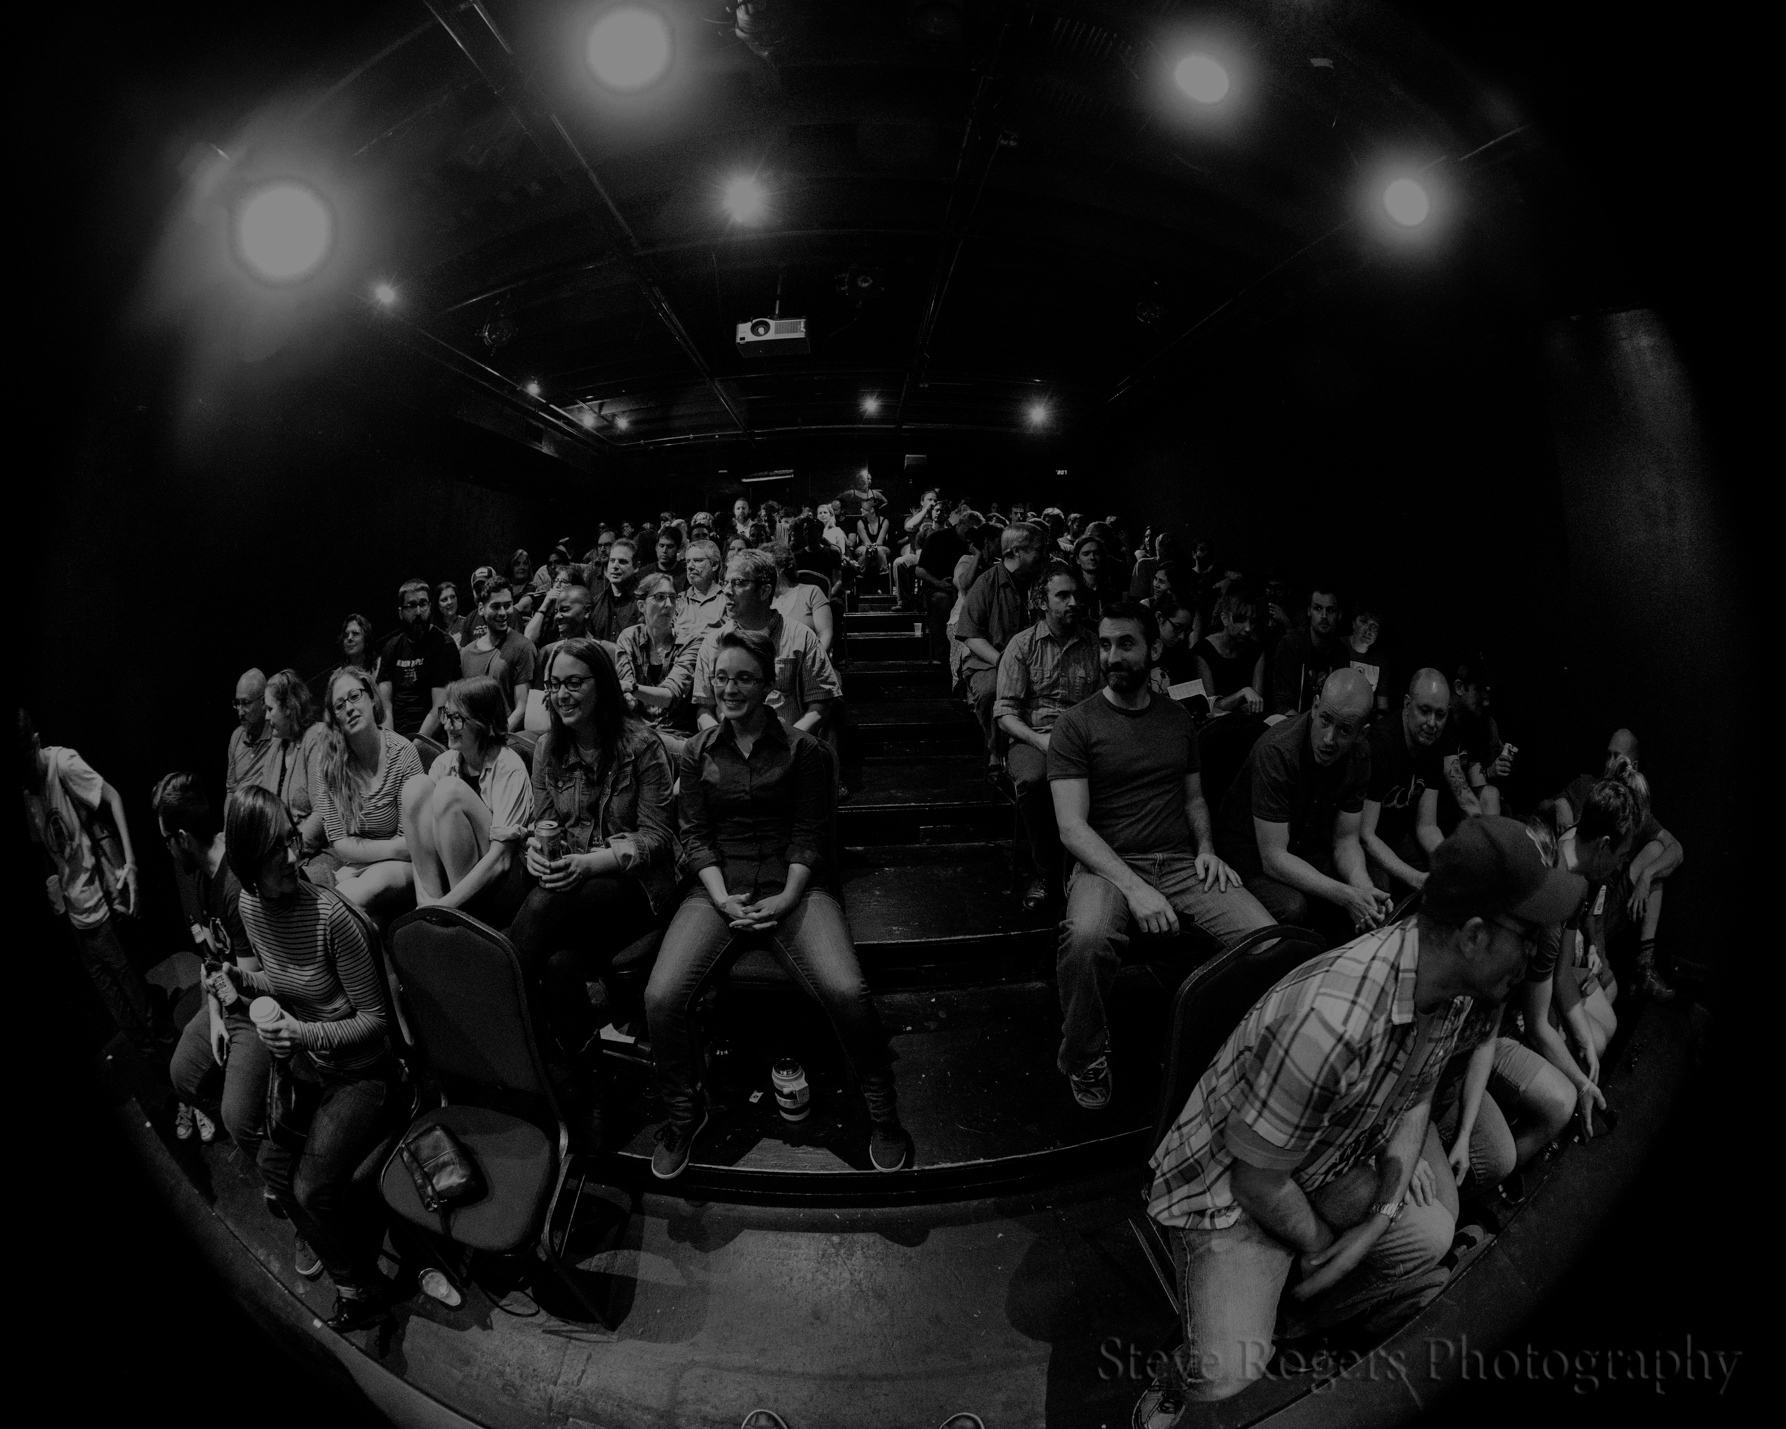
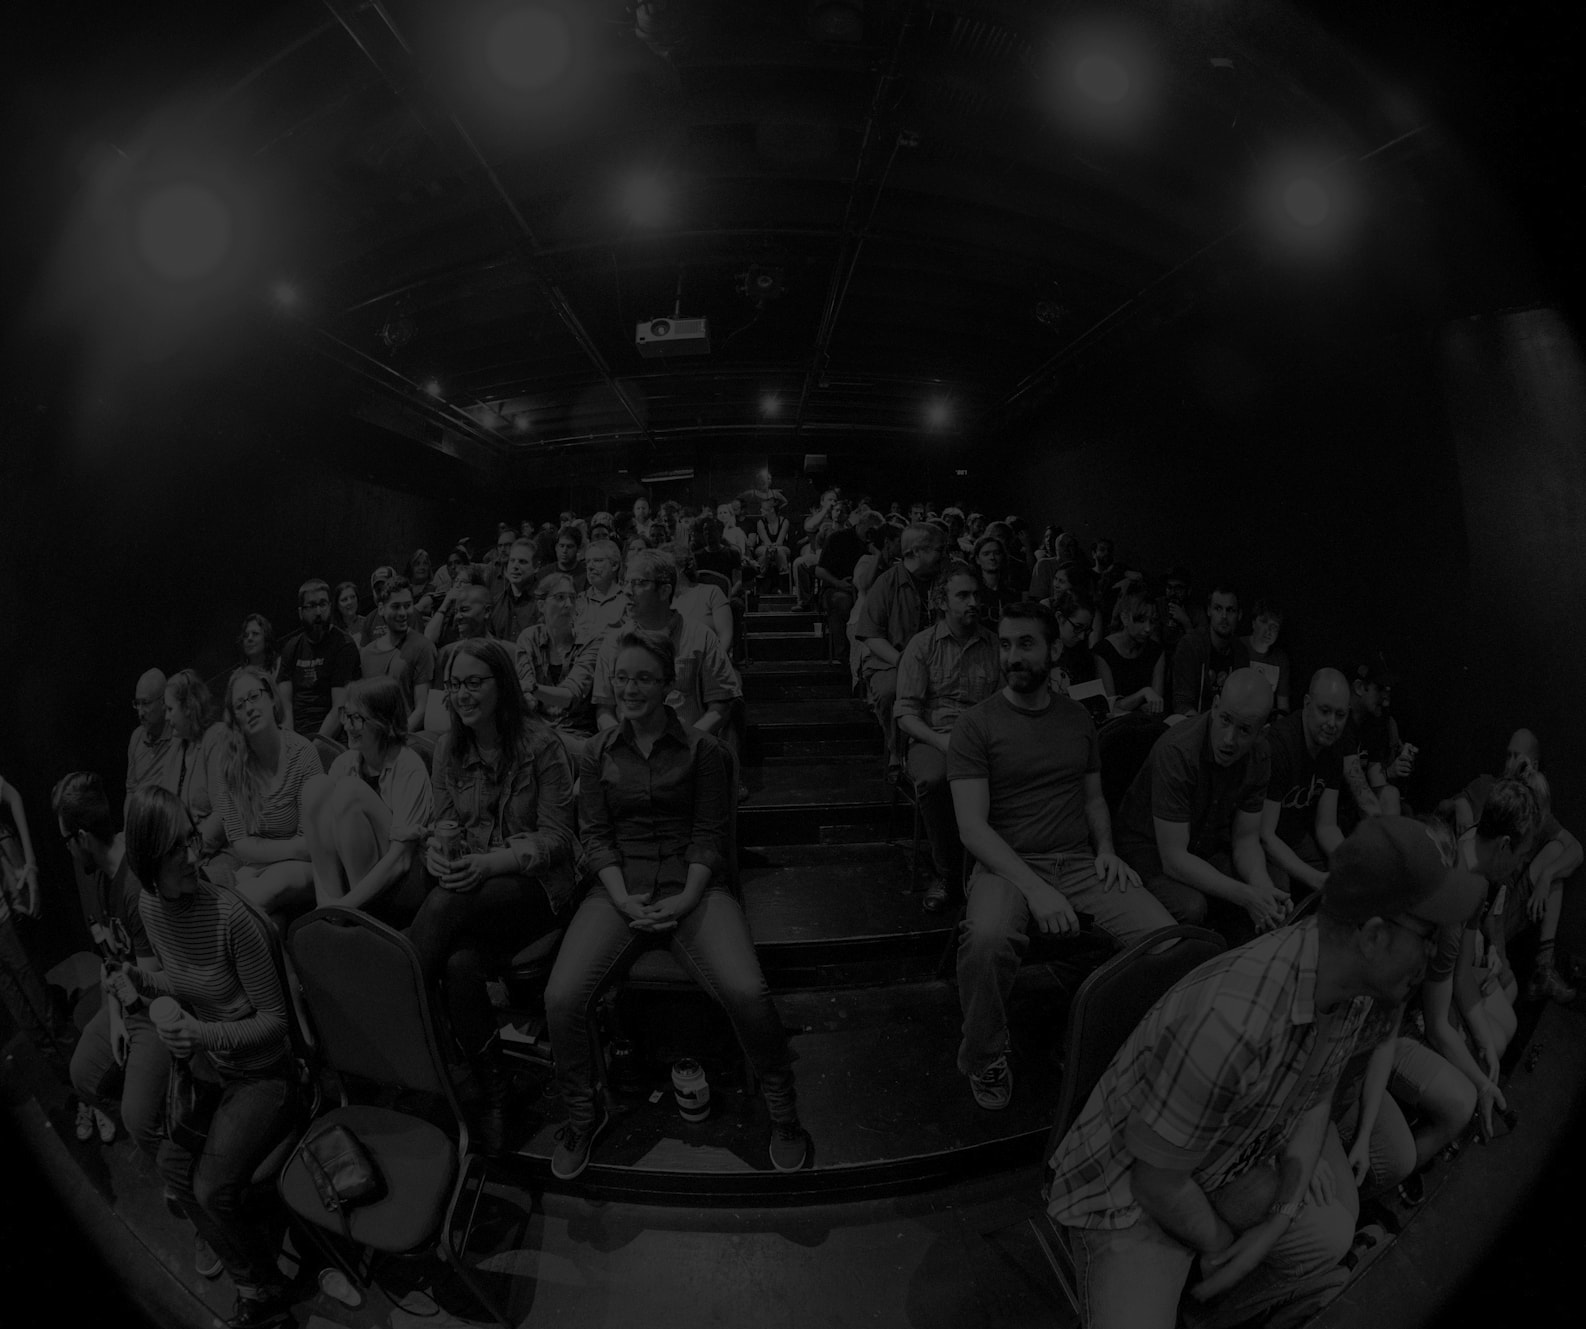
More submission form updates

diff --git a/public/css/custom.css b/public/css/custom.css
@@ -3,8 +3,14 @@ body {
 	font-family: 'Raleway', sans-serif; 
 }
 
+.submission-logo {
+	width: 100%;
+	height: auto;
+	max-width: 547px;
+	padding-top: 2em;
+}
 .bg-accent-oob {
-	background: url('../img/audience-dark.jpg') no-repeat center center fixed; 
+	background: url('../img/audience-dark.jpg') no-repeat bottom center fixed; 
 	background-size: cover;
 	background-color: #1A1A1A;
 }
